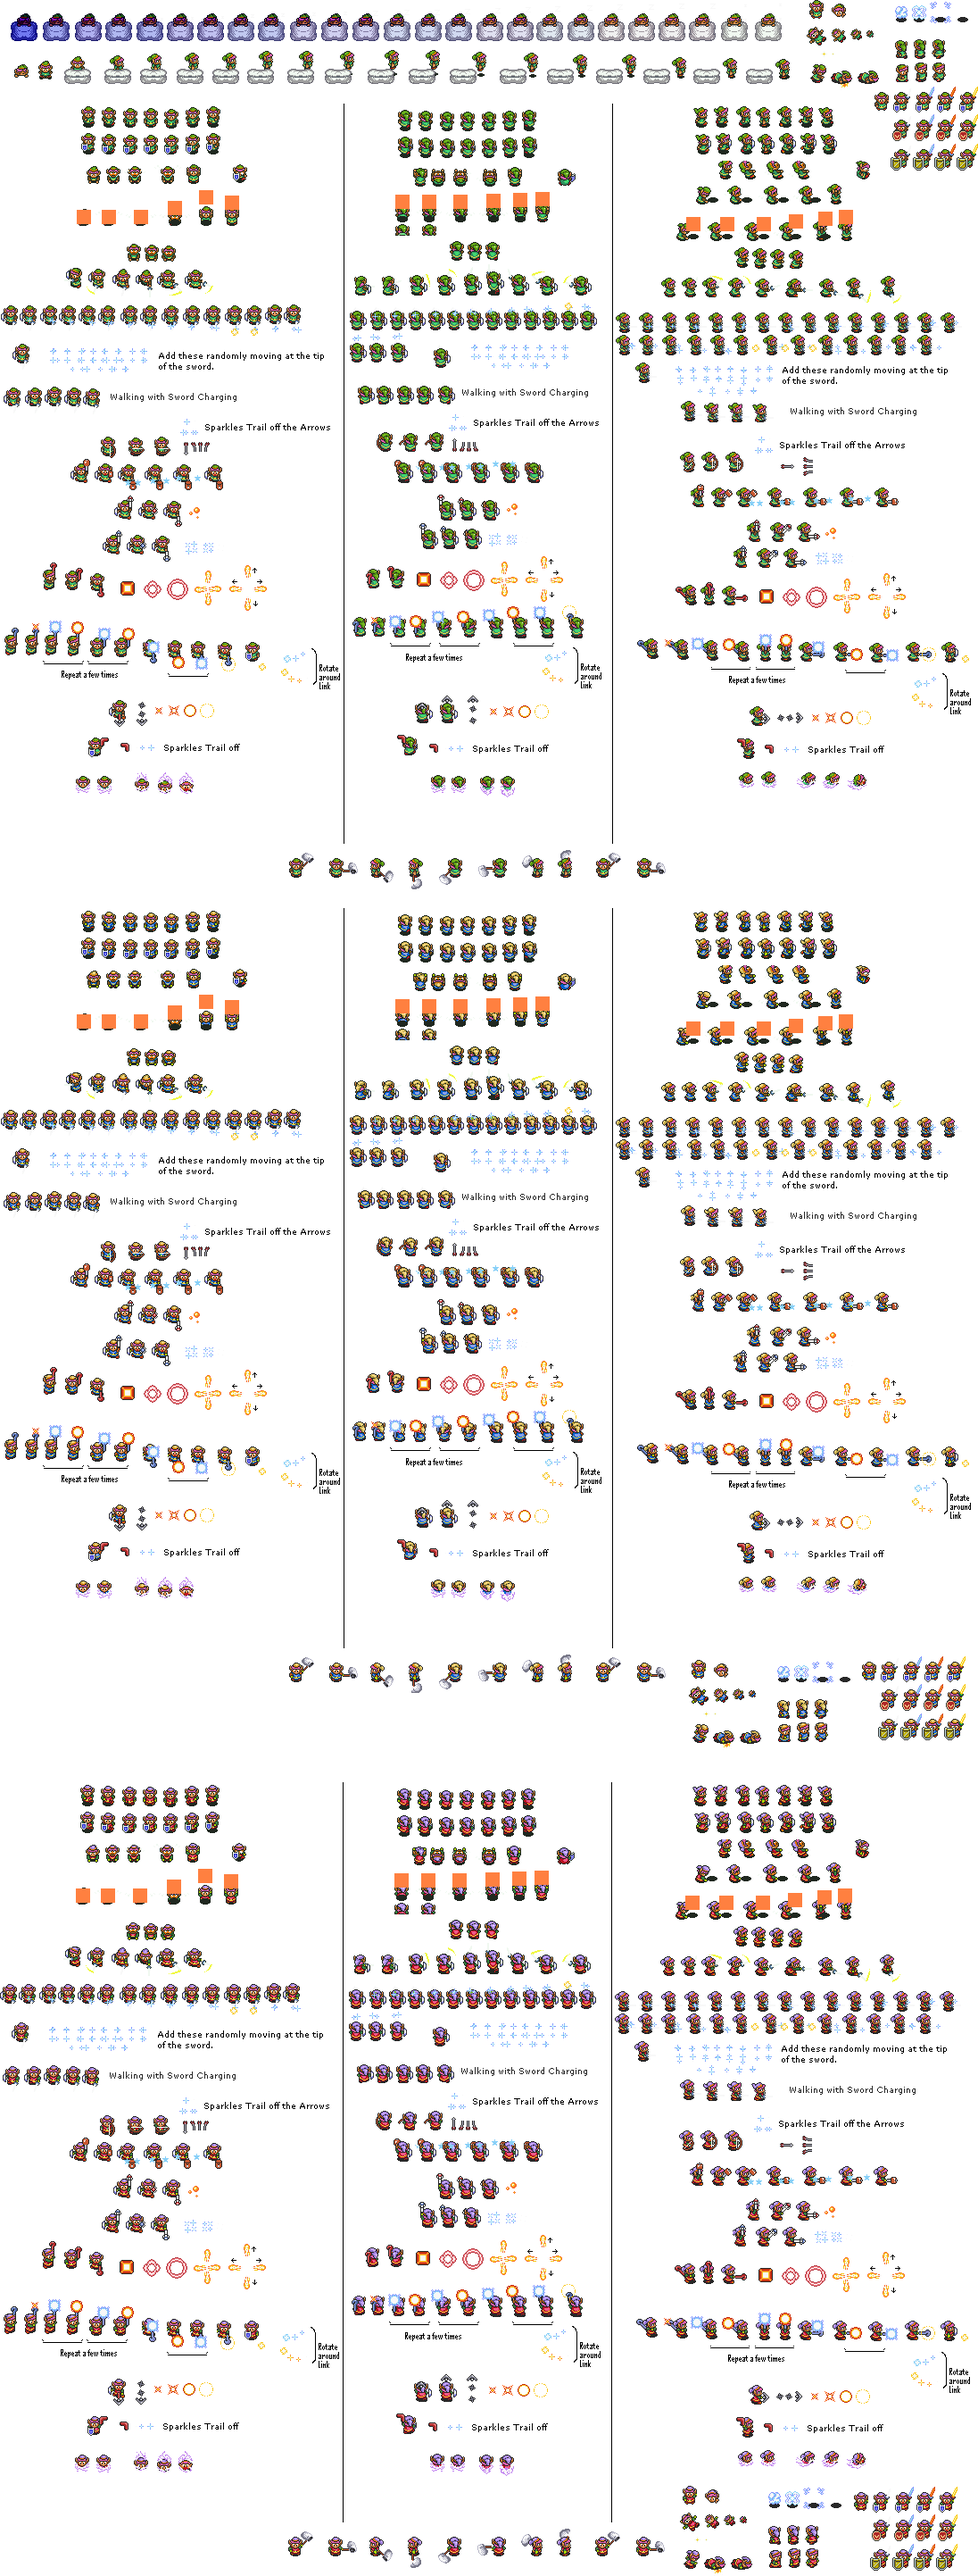
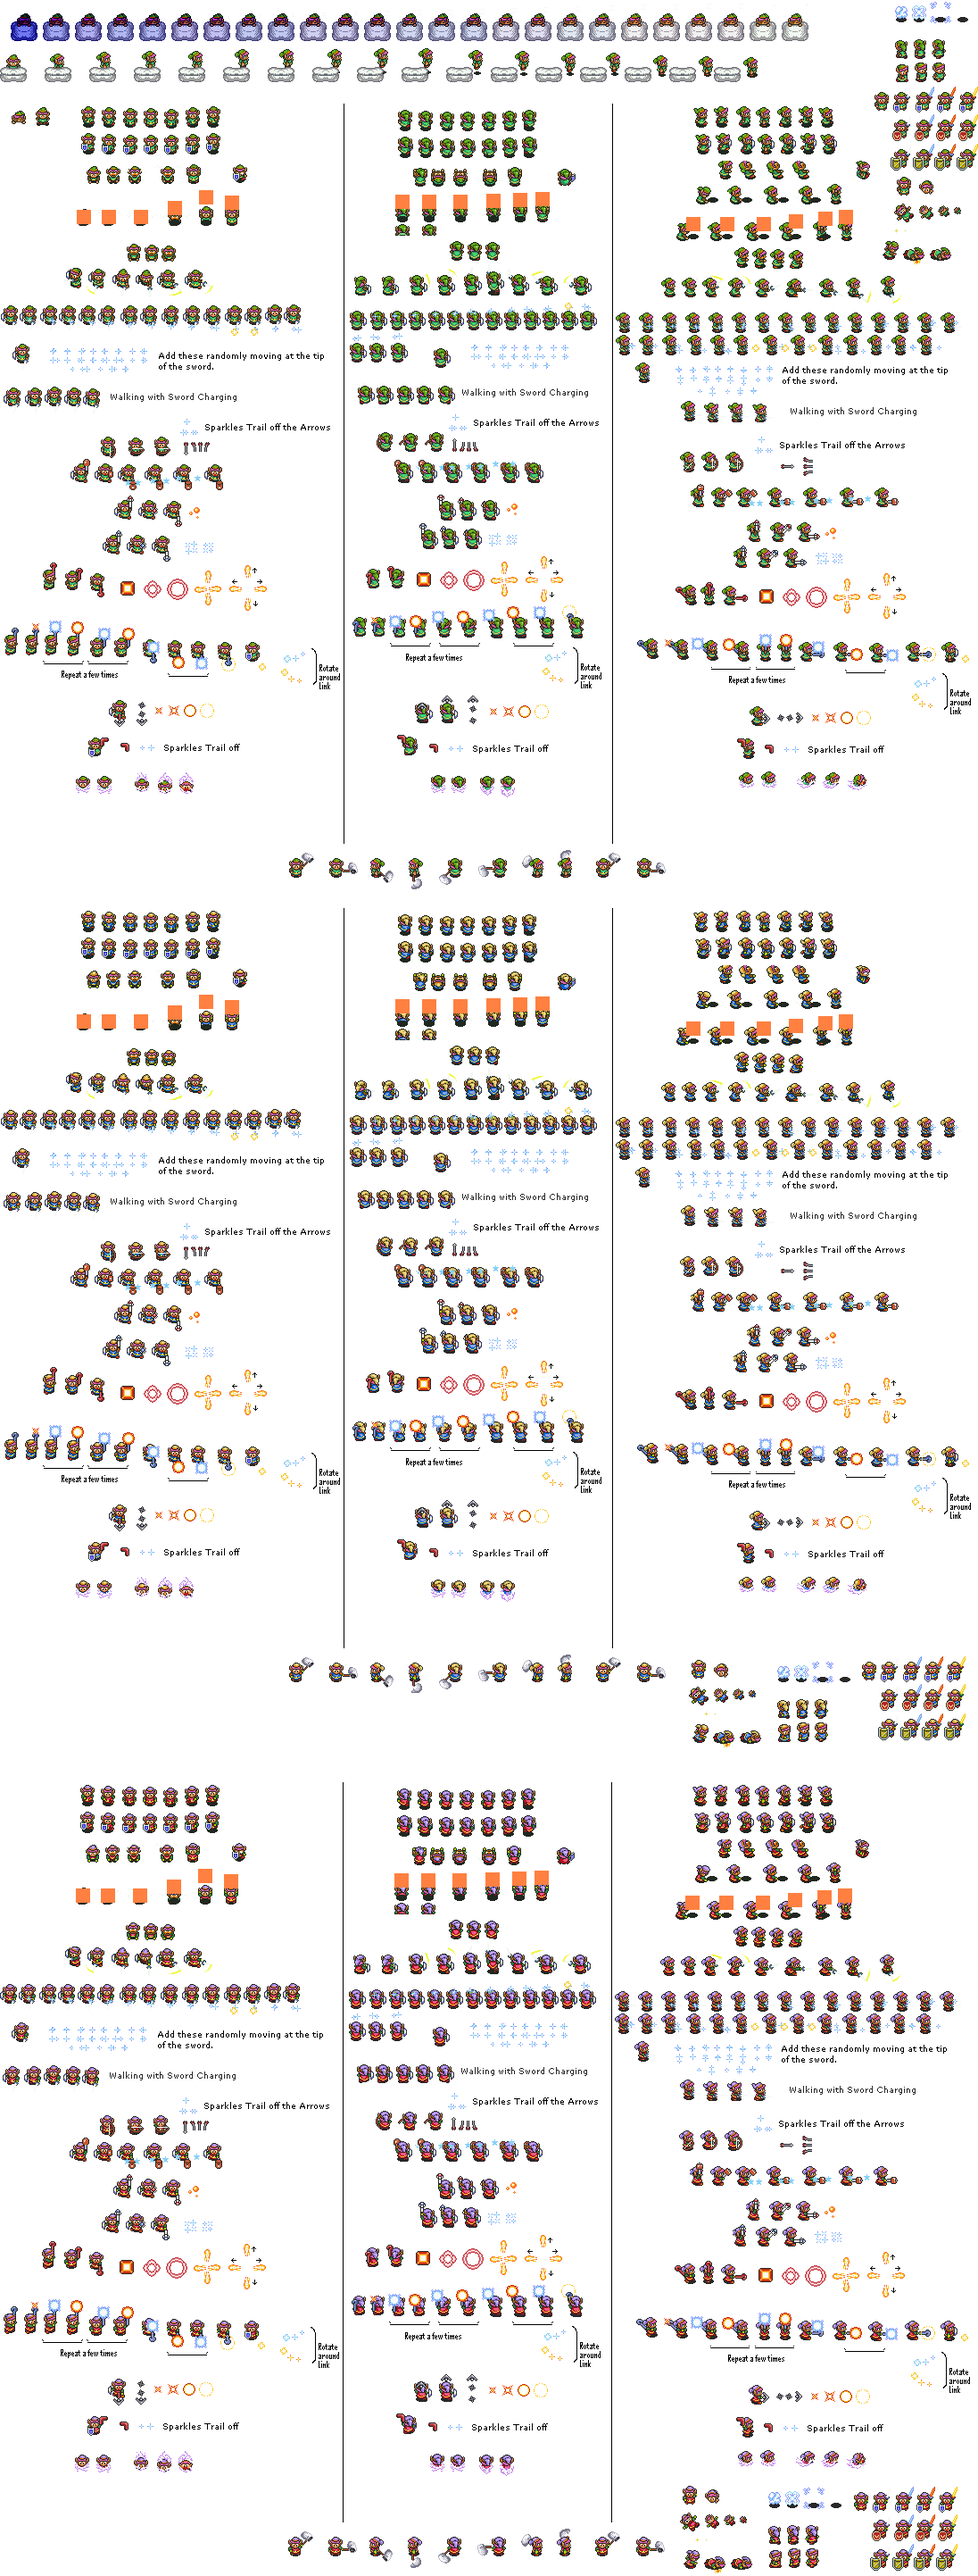
Adding getting off bed animation and displaying zelda text

Changed region(s): [[0.0, 0.0, 0.8996, 0.0312], [0.8996, 0.0624, 0.9617, 0.1248]]

diff --git a/src/levels/lightWorld/introDemo/introDemo.js b/src/levels/lightWorld/introDemo/introDemo.js
@@ -23,7 +23,10 @@ seal. ... ...
 I am in the dungeon of the
 castle.
 
-Please help me...`
+Please help me...`,
+	ZELDA: `, I'm going out for a
+while. I'll be back by morning.
+Don't leave the house.`
 };
 
 export default class IntroDemo {
@@ -63,10 +66,21 @@ export default class IntroDemo {
 			blueMask();
 
 			if (Text.drawScrollText(38, 145)) {
-				this.storyState.shift();
 				this.music.openingDemo.play();
+				this.jumpOffBed = false;
+				this.storyState.shift();
 			}
 		}, () => {
+			if (Animate.linkSnoozing(this, 56, 61)) {
+				Animate.linkJumpingOffBed(this, 56, 66, false);
+				Text.write(Link.charName + DIALOGUE.ZELDA, 40, 152);
+
+				if (this.jumpOffBed) {
+					this.storyState.shift();
+				}
+			}
+		}, () => {
+			Animate.linkJumpingOffBed(this, 56, 66, true);
 		}];
 
 		Text.setScrollText(DIALOGUE.SCROLL);
@@ -75,6 +89,9 @@ export default class IntroDemo {
 		this.keyboard = document.onkeydown = (event) => {
 			if ([KeyCodes.Y, KeyCodes.B, KeyCodes.X, KeyCodes.A, KeyCodes.START].indexOf(event.keyCode) !== -1) {
 				Text.animateScroll();
+				if (this.jumpOffBed === false) {
+					this.jumpOffBed = true;
+				}
 			}
 		};
 	}

diff --git a/src/core/Animate.js b/src/core/Animate.js
@@ -2,6 +2,8 @@
 
 export default class Animate {
 	constructor() {
+		this.link = new Image();
+		this.link.src = "img/link.png";
 	}
 
 	openingCircle(obj) {
@@ -26,4 +28,53 @@ export default class Animate {
 		ContextMask.restore();
 		ContextMask.closePath();
 	}
+
+	linkSnoozing(obj, xPos, yPos) {
+		if (obj["LINK_WAKING_COUNTER"] >= 50) {
+			return true;
+		}
+
+		if (!obj["LINK_WAKING_COUNTER"]) {
+			obj["LINK_WAKING_COUNTER"] = 0;
+		}
+
+		Context.drawImage(
+			this.link,
+			12 + (36 * Math.floor(obj["LINK_WAKING_COUNTER"]++ / 2)),
+			4,
+			30,
+			45,
+			xPos,
+			yPos,
+			30,
+			45
+		)
+	}
+
+	linkJumpingOffBed(obj, xPos, yPos, animate) {
+		if (obj["LINK_JUMPING_OFF_BED_COUNTER"] >= 34) {
+			return true;
+		}
+
+		if (!obj["LINK_JUMPING_OFF_BED_COUNTER"]) {
+			obj["LINK_JUMPING_OFF_BED_COUNTER"] = 0;
+		}
+
+		Context.drawImage(
+			this.link,
+			50 * Math.floor(obj["LINK_JUMPING_OFF_BED_COUNTER"] / 2),
+			55,
+			50,
+			50,
+			xPos,
+			yPos,
+			50,
+			50
+		)
+
+		if (animate) {
+			obj["LINK_JUMPING_OFF_BED_COUNTER"]++;
+		}
+	}
+
 }

diff --git a/src/levels/intro/charSelect/charSelect.js b/src/levels/intro/charSelect/charSelect.js
@@ -40,7 +40,7 @@ export default class NameSelect {
 					// Start the game if the user selects an already created state
 					if (newChar) {
 						State.pop();
-						window.Zelda = newChar;
+						window.Link = newChar;
 
 						new LightWorld();
 					} else {

diff --git a/src/core/Game.js b/src/core/Game.js
@@ -13,6 +13,13 @@ export default class Game {
 	constructor() {
 		this.configure();
 		new Intro();
+
+		// Preload this user for development
+		window.Link = {
+			charName: "Link",
+			hearts: 3,
+			slot: 999
+		}
 	}
 
 	configure() {
